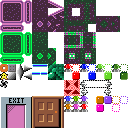
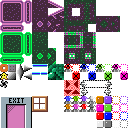
clean up buttons a bit

diff --git a/assets/purple.tsx b/assets/purple.tsx
@@ -1,5 +1,5 @@
 <?xml version="1.0" encoding="UTF-8"?>
-<tileset version="1.8" tiledversion="1.8.0" name="purple" tilewidth="8" tileheight="8" tilecount="256" columns="16" backgroundcolor="#3d3846">
+<tileset version="1.10" tiledversion="1.10.2" name="purple" tilewidth="8" tileheight="8" tilecount="256" columns="16" backgroundcolor="#3d3846">
  <transformations hflip="0" vflip="0" rotate="0" preferuntransformed="1"/>
  <properties>
   <property name="animations" value="tiles"/>
@@ -129,7 +129,7 @@
  <tile id="143">
   <properties>
    <property name="alternate" type="int" value="159"/>
-   <property name="condition" value="green"/>
+   <property name="condition" value="!green"/>
    <property name="solid" type="bool" value="false"/>
   </properties>
  </tile>
@@ -196,7 +196,7 @@
  <tile id="159">
   <properties>
    <property name="alternate" type="int" value="143"/>
-   <property name="condition" value="!green"/>
+   <property name="condition" value="green"/>
   </properties>
  </tile>
  <tile id="160">
@@ -302,6 +302,14 @@
    <property name="solid" type="bool" value="true"/>
   </properties>
  </tile>
+ <tile id="203">
+  <properties>
+   <property name="button" type="bool" value="true"/>
+   <property name="button_type" value="toggle"/>
+   <property name="color" value="white"/>
+   <property name="solid" type="bool" value="true"/>
+  </properties>
+ </tile>
  <tile id="204">
   <properties>
    <property name="alternate" type="int" value="206"/>
@@ -347,6 +355,14 @@
    <property name="button" type="bool" value="true"/>
    <property name="button_type" value="toggle"/>
    <property name="color" value="red"/>
+   <property name="solid" type="bool" value="true"/>
+  </properties>
+ </tile>
+ <tile id="219">
+  <properties>
+   <property name="button" type="bool" value="true"/>
+   <property name="button_type" value="toggle"/>
+   <property name="color" value="!white"/>
    <property name="solid" type="bool" value="true"/>
   </properties>
  </tile>

diff --git a/button.py b/button.py
@@ -32,7 +32,10 @@ class Button(PlatformBase):
             obj.properties.get('button_type', 'toggle'))
 
     def get_image_path(self, obj: MapObject):
-        return f'assets/sprites/buttons/{self.color}.png'
+        color = self.color
+        if color == '!white':
+            color = 'black'
+        return f'assets/sprites/buttons/{color}.png'
 
     def draw(self, surface: pygame.Surface, offset: tuple[int, int]):
         x = self.x//16 + offset[0]
